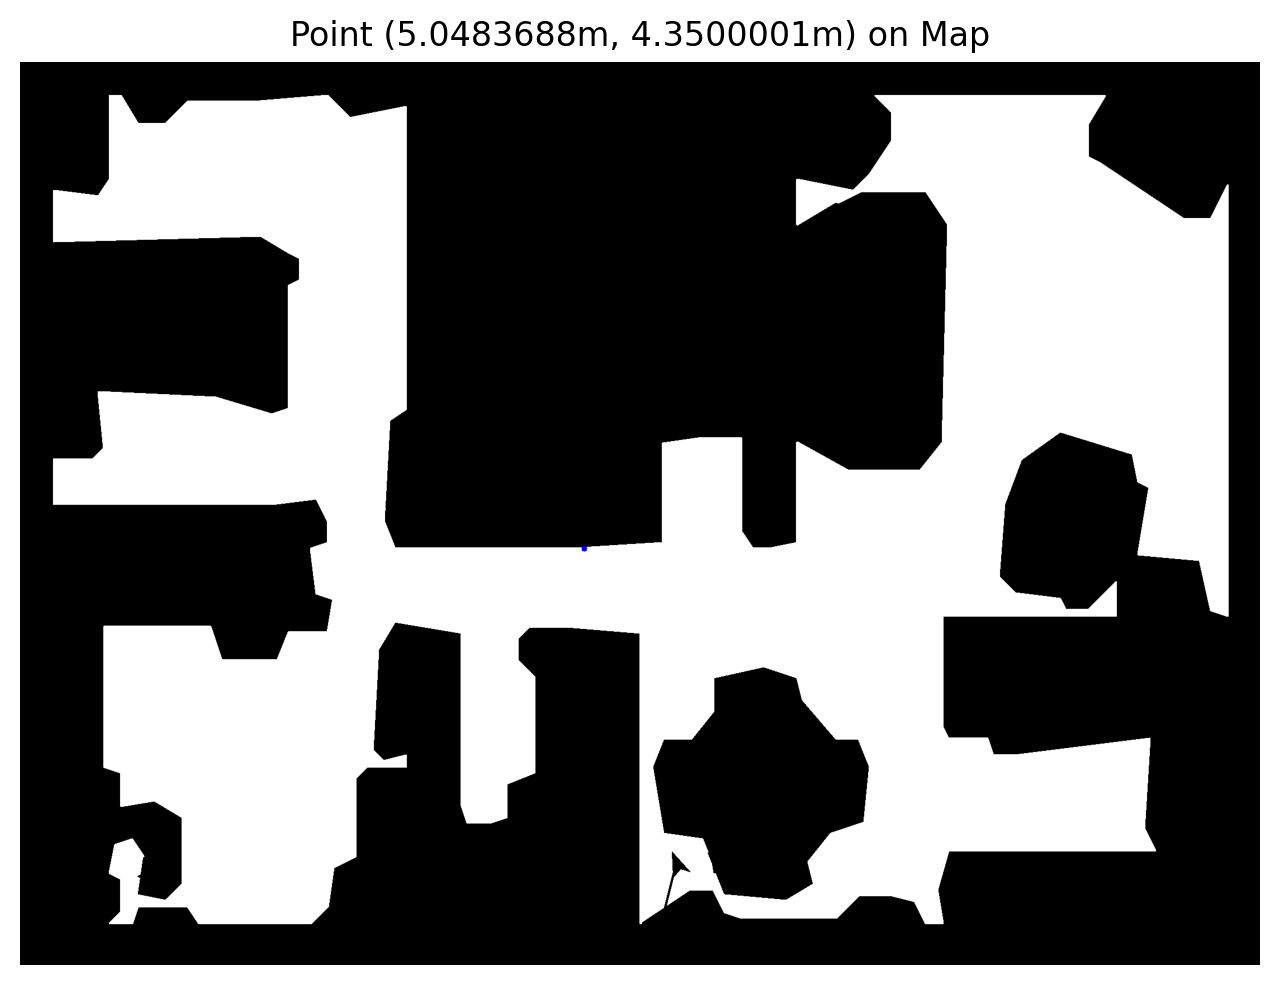
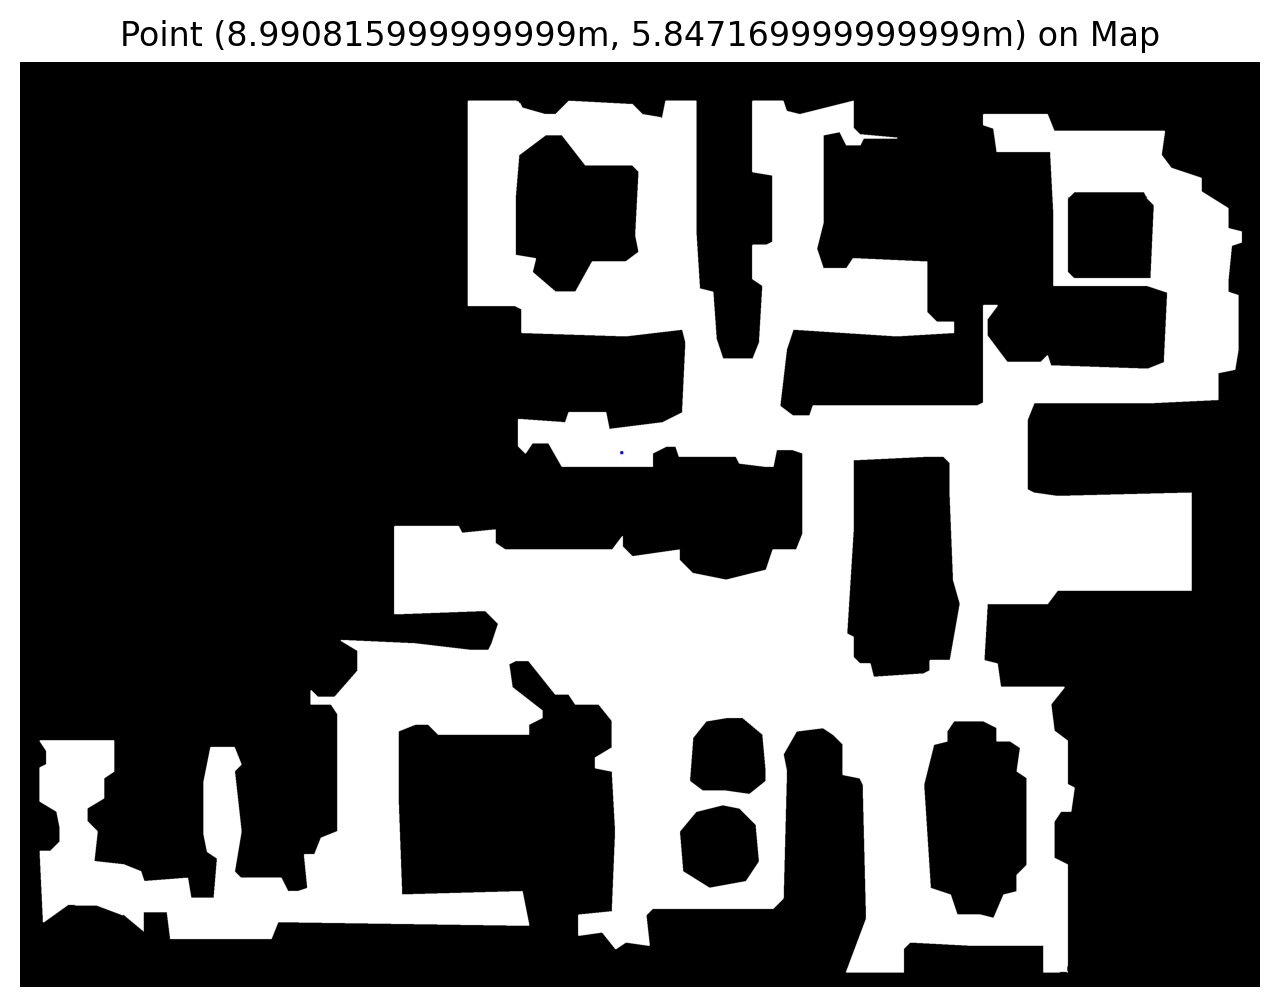
fix rrt start to print the idx number

diff --git a/src/rrt_star_call.py b/src/rrt_star_call.py
@@ -147,7 +147,7 @@ def plan_rrt_star(start_m, goal_m, map_path, meters_per_pixel=0.005, step_size_m
     return path, nodes, occupancy, (start, goal), reference_angle, reference_point
 
 
-def plot_rrt_result(path, nodes, occupancy, start_goal, map_path, reference_point=None, output_dir="rrt_star_record"):
+def plot_rrt_result(path, nodes, occupancy, start_goal, map_path, reference_point=None, output_dir="rrt_star_record", episode_idx=None):
 
     # Helper to find next available filename
     def get_next_filename(prefix="rrt_star_result_", ext=".png"):
@@ -157,7 +157,16 @@ def plot_rrt_result(path, nodes, occupancy, start_goal, map_path, reference_poin
             i += 1
         return os.path.join(output_dir, f"{prefix}{i}{ext}")
 
-    save_path = get_next_filename()
+    # save_path = get_next_filename()
+
+
+
+    os.makedirs(output_dir, exist_ok=True)
+    if episode_idx is not None:
+        save_path = os.path.join(output_dir, f"rrt_result_ep{episode_idx}.png")
+    else:
+        save_path = get_next_filename()
+
 
     original_occupancy = np.load(map_path)
     vis_map = np.stack([255 * (1 - original_occupancy)] * 3, axis=-1).astype(np.uint8)

diff --git a/src/agent.py b/src/agent.py
@@ -1404,7 +1404,8 @@ class ObjectNavAgent(VLMNavAgent):
         map_path = f"topdown_maps_single/{scene_name}_h{height:.2f}.npy"
 
         print(f"map path file name mmmmmmmmmmmmmmmmmmmmmmmmmmmmmmmmmmmmmmmmmmmmmmmmmmmmmmmmmmm",map_path)
-
+        print(f"start mmmmmmmmmmmmmmmmmmmmmmmmmmmmmmmmmmmmmmmmmmmmmmmmmmmmmmmmmmm",start)
+        print(f"goal mmmmmmmmmmmmmmmmmmmmmmmmmmmmmmmmmmmmmmmmmmmmmmmmmmmmmmmmmmm",goal)
 
 
         path, nodes, occupancy, start_goal, reference_angle, reference_point = plan_rrt_star(start, goal, map_path)
@@ -1422,7 +1423,7 @@ class ObjectNavAgent(VLMNavAgent):
         if not path:
             print("⚠ No valid path found. Skipping plot.")
         else:
-            plot_rrt_result(path, nodes, occupancy, start_goal, map_path, reference_point)
+            plot_rrt_result(path, nodes, occupancy, start_goal, map_path, reference_point, episode_idx=self.episode_ndx)
         ####################################################
 
 

diff --git a/rrt_star.py b/rrt_star.py
@@ -19,10 +19,10 @@ class Node:
 
 
 meters_per_pixel = 0.005
-max_iterations = 1000
+max_iterations = 5000
 step_size = 0.1
 search_radius = 1
-robot_radius_m = 0.05  # radius of the robot in meters
+robot_radius_m = 0.00  # radius of the robot in meters
 goal_tolerance = 1
 
 
@@ -30,15 +30,15 @@ goal_tolerance = 1
 # goal = (2.0, 2.5)
 
 
-start = (8.5, 1.26951)  
-goal = (1.0, 1.0)
+start = ( 2.349 + 6.490816, -1.84142 + 7.68859)  
+goal = (2.5   + 6.490816, -1.84142 + 7.68859)
 
 step_size = step_size/meters_per_pixel
 search_radius = search_radius/meters_per_pixel
 goal_tolerance = goal_tolerance/meters_per_pixel
 
 # Load occupancy map (0 = free, 1 = obstacle)
-map_path = "topdown_maps_single/occupancy_h2.1.npy"
+map_path = "topdown_maps_single/5cdEh9F2hJL.basis_h0.07.npy"
 occupancy = np.load(map_path)
 
 

diff --git a/plot_point_on_map.py b/plot_point_on_map.py
@@ -3,10 +3,10 @@ import matplotlib.pyplot as plt
 import cv2
 
 # ---- Config ----
-map_path = "topdown_maps_single/occupancy_h2.06.npy"
+map_path = "topdown_maps_single/5cdEh9F2hJL.basis_h0.07.npy"
 # [6.5, 2.06447, 3.25]
 
-x_meters, y_meters = 4.2743988   + 0.77397, 1.7801433 + 2.5698568  # Replace with the point you want to visualize
+x_meters, y_meters = 2.5   + 6.490816, -1.84142 + 7.68859  # Replace with the point you want to visualize
 meters_per_pixel = 0.005
 
 
